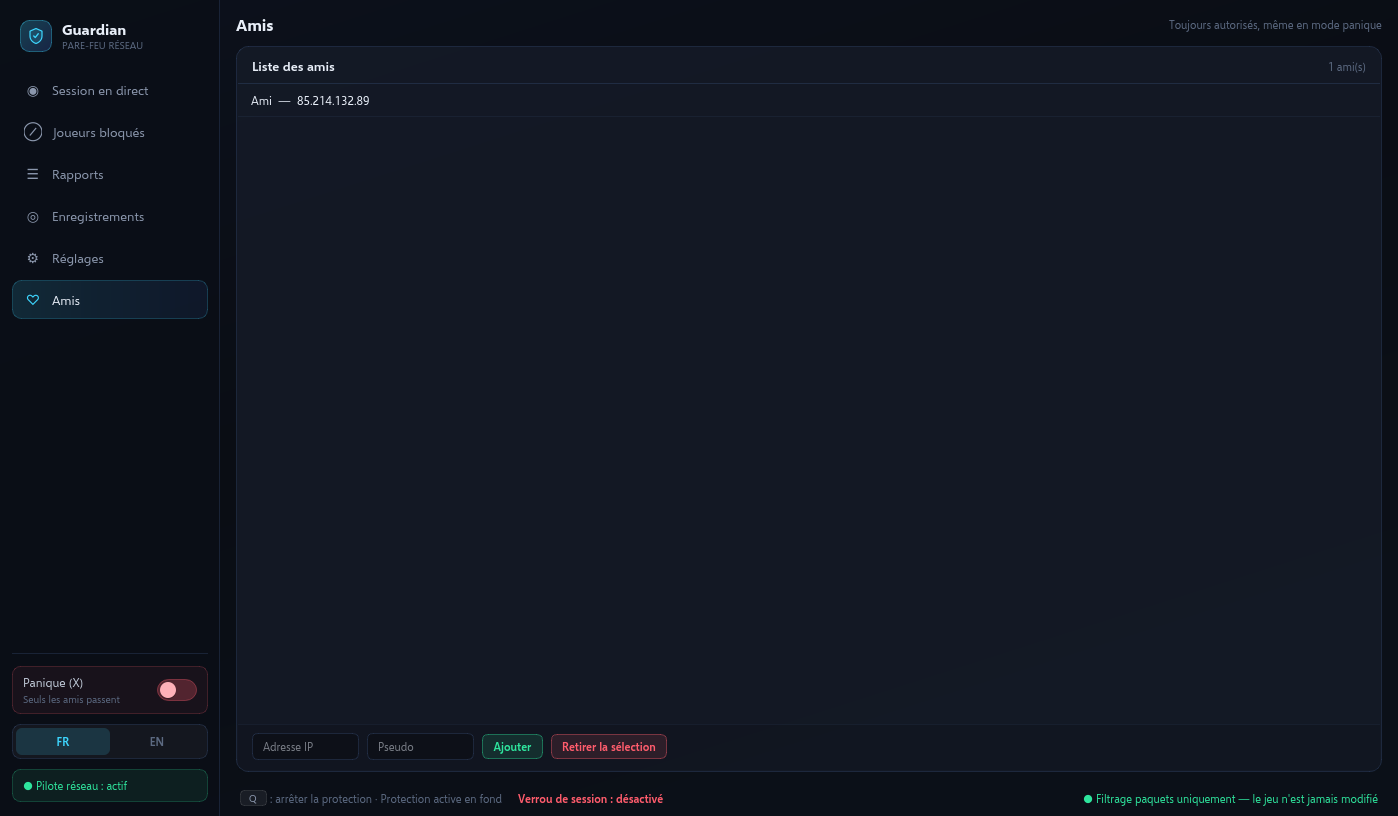
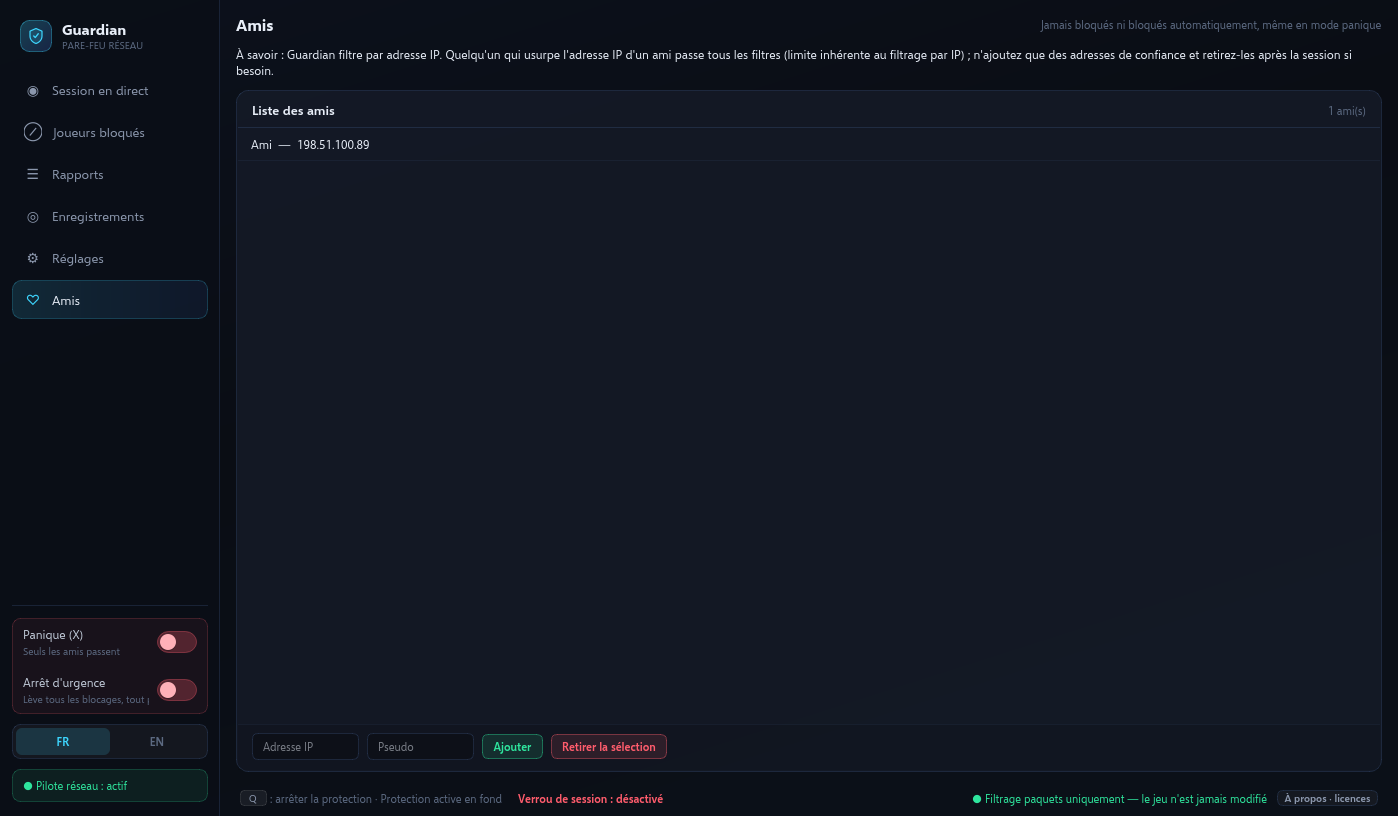
G4 : IP d'exemple/démo en plages RFC 5737 ; captures régénérées ; tests adaptés après rebase lot 7

Changed region(s): [[0.1538, 0.0306, 0.9843, 0.1838], [0.7074, 0.9498, 0.9843, 1.0], [0.0, 0.7659, 0.1538, 0.8578]]

diff --git a/tests/test_lot5_gui.py b/tests/test_lot5_gui.py
@@ -55,13 +55,26 @@ def select_ip(win, ip):
     raise AssertionError(ip)
 
 
+# Vraie IP publique, uniquement pour vérifier la géolocalisation hors ligne
+# (les données de démonstration utilisent les plages RFC 5737).
+GEO_IP = "82.64.12.45"
+
+
+def add_geo_peer(win, session):
+    feed(session, [(GEO_IP, 18, 28)])
+    win.refresh()
+
+
 def test_table_shows_peers_with_country_ping_pps(win, session):
     t = win.live.table
     assert t.rowCount() == len(session.peers) > 0  # aucun serveur R* ici
     ips = {t.item(i, 1).text() for i in range(t.rowCount())}
-    assert "82.64.12.45" in ips
-    row = next(i for i in range(t.rowCount()) if t.item(i, 1).text() == "82.64.12.45")
-    assert t.item(row, 0).text() == "France"
+    assert "203.0.113.10" in ips
+    row = next(i for i in range(t.rowCount()) if t.item(i, 1).text() == "203.0.113.10")
+    assert t.item(row, 0).text() == "Inconnu"  # plage de documentation
+    add_geo_peer(win, session)
+    geo = next(i for i in range(t.rowCount()) if t.item(i, 1).text() == GEO_IP)
+    assert t.item(geo, 0).text() == "France"
     assert t.item(row, 2).text().endswith("ms")
     assert float(t.item(row, 3).text()) > 0
     from gui.window import BADGES_ROLE
@@ -122,44 +135,44 @@ def test_recording_and_kick_buttons(qtbot, win, session, keys):
 
 
 def test_block_unblock_selected_row(qtbot, win, session, keys):
-    select_ip(win, "91.198.174.22")
+    select_ip(win, "203.0.113.22")
     qtbot.mouseClick(win.live.b_block, Qt.MouseButton.LeftButton)
-    assert "91.198.174.22" in session.blocked
-    assert session.ctrl.blacklist.get("91.198.174.22") is not None
-    select_ip(win, "91.198.174.22")
+    assert "203.0.113.22" in session.blocked
+    assert session.ctrl.blacklist.get("203.0.113.22") is not None
+    select_ip(win, "203.0.113.22")
     qtbot.mouseClick(win.live.b_unblock, Qt.MouseButton.LeftButton)
-    assert "91.198.174.22" not in session.blocked
+    assert "203.0.113.22" not in session.blocked
     assert keys == ["b", "d"]
 
 
 def test_blocked_page_unblock(qtbot, win, session, keys):
-    win.actions_.block("85.214.132.89", "x")
+    win.actions_.block("198.51.100.89", "x")
     win.refresh()
     page = win.blocked
     assert page.table.rowCount() == 1
     page.table.selectRow(0)
     qtbot.mouseClick(page.unblock, Qt.MouseButton.LeftButton)
-    assert "85.214.132.89" not in session.blocked
+    assert "198.51.100.89" not in session.blocked
     assert keys == ["b", "d"]
 
 
 def test_friend_toggle_and_friends_page(qtbot, win, session, keys):
-    select_ip(win, "79.23.45.110")
+    select_ip(win, "203.0.113.110")
     qtbot.mouseClick(win.live.b_friend, Qt.MouseButton.LeftButton)
-    assert session.ctrl.friends.get("79.23.45.110") == "Toto"
-    assert session.config.data[ls.FRIENDS_KEY] == {"79.23.45.110": "Toto"}
+    assert session.ctrl.friends.get("203.0.113.110") == "Toto"
+    assert session.config.data[ls.FRIENDS_KEY] == {"203.0.113.110": "Toto"}
     win.refresh()
     assert win.friends.list.count() == 1
     win.friends.list.setCurrentRow(0)
     qtbot.mouseClick(win.friends.remove, Qt.MouseButton.LeftButton)
-    assert "79.23.45.110" not in session.ctrl.friends
+    assert "203.0.113.110" not in session.ctrl.friends
     win.friends.ip.setText("pas-une-ip")
     qtbot.mouseClick(win.friends.add, Qt.MouseButton.LeftButton)
     assert not session.ctrl.friends
-    win.friends.ip.setText("81.2.69.160")
+    win.friends.ip.setText("192.0.2.160")
     win.friends.nick.setText("Ami")
     qtbot.mouseClick(win.friends.add, Qt.MouseButton.LeftButton)
-    assert session.ctrl.friends == {"81.2.69.160": "Ami"}
+    assert session.ctrl.friends == {"192.0.2.160": "Ami"}
     assert keys == ["f"]
 
 
@@ -264,20 +277,21 @@ def test_console_flag_keeps_console_mode():
 
 
 def test_row_buttons_block_and_unblock(qtbot, win, session, keys):
-    btn = win.live.row_button("91.198.174.22")
+    btn = win.live.row_button("203.0.113.22")
     assert btn is not None and btn.text() == "Bloquer"
     qtbot.mouseClick(btn, Qt.MouseButton.LeftButton)
-    assert "91.198.174.22" in session.blocked
-    btn = win.live.row_button("91.198.174.22")
+    assert "203.0.113.22" in session.blocked
+    btn = win.live.row_button("203.0.113.22")
     assert btn.text() == "Débloquer"
     qtbot.mouseClick(btn, Qt.MouseButton.LeftButton)
-    assert "91.198.174.22" not in session.blocked
+    assert "203.0.113.22" not in session.blocked
     assert keys == ["b", "d"]
 
 
-def test_flag_and_full_country_name(win):
+def test_flag_and_full_country_name(win, session):
+    add_geo_peer(win, session)
     t = win.live.table
-    row = next(i for i in range(t.rowCount()) if t.item(i, 1).text() == "82.64.12.45")
+    row = next(i for i in range(t.rowCount()) if t.item(i, 1).text() == GEO_IP)
     assert t.item(row, 0).text() == "France"
     assert not t.item(row, 0).icon().isNull()
 
@@ -351,15 +365,15 @@ def test_reports_page_lists_existing_reports_read_only(win):
 
     d = reports_dir()
     d.mkdir(parents=True, exist_ok=True)
-    (d / "20261027-142201_176.4.29.17.txt").write_text("rapport")
-    (d / "20261027-142201_176.4.29.17.json").write_text("{}")
+    (d / "20261027-142201_198.51.100.17.txt").write_text("rapport")
+    (d / "20261027-142201_198.51.100.17.json").write_text("{}")
     before = sorted(p.name for p in d.iterdir())
     win.nav[win.REPORTS].click()
     win.reports.rescan()
     names = [
         win.reports.table.item(i, 0).text() for i in range(win.reports.table.rowCount())
     ]
-    assert "20261027-142201_176.4.29.17.txt" in names
+    assert "20261027-142201_198.51.100.17.txt" in names
     assert all(n.endswith(".txt") for n in names)
     assert sorted(p.name for p in d.iterdir()) == before  # rien écrit ni supprimé
 

diff --git a/tests/test_lot5_retouches.py b/tests/test_lot5_retouches.py
@@ -112,17 +112,18 @@ def test_g3_about_button_shows_lgpl(qtbot, win, shown):
     assert "PySide6" in text and "LGPL-3.0" in text
 
 
-# -- G4 : pays de l'IP d'exemple ---------------------------------------------------
-def test_g4_example_ip_country_from_offline_db(win):
-    from util.geoip import country_code
+# -- G4 : exemples et démonstration en plages de documentation (RFC 5737) -------
+def test_g4_demo_ips_are_documentation_ranges():
+    import ipaddress
 
-    code = country_code("91.198.174.22")
-    t = win.live.table
-    row = next(i for i in range(t.rowCount()) if t.item(i, 1).text() == "91.198.174.22")
-    from gui import countries
+    from tests.gui_fakes import DEMO_PEERS
 
-    # L'étiquette affichée suit toujours la base hors ligne (jamais codée en dur).
-    assert t.item(row, 0).text() == countries.name(code)
+    doc = [
+        ipaddress.ip_network(n)
+        for n in ("192.0.2.0/24", "198.51.100.0/24", "203.0.113.0/24")
+    ]
+    for ip, _pps, _ping in DEMO_PEERS:
+        assert any(ipaddress.ip_address(ip) in n for n in doc), ip
 
 
 # -- G5 : une notification = un seul affichage -------------------------------------
@@ -279,7 +280,7 @@ def test_kick_button_arms_capture(qtbot, win, session):
 
 
 def test_live_header_buttons(qtbot, win, session):
-    ip = "82.64.12.45"
+    ip = "203.0.113.10"
     select_ip(win, ip)
     click(qtbot, win.live.b_block)
     assert ip in session.blocked
@@ -289,7 +290,7 @@ def test_live_header_buttons(qtbot, win, session):
     select_ip(win, ip)
     click(qtbot, win.live.b_friend)
     assert session.ctrl.is_friend(ip)
-    select_ip(win, "79.23.45.110")
+    select_ip(win, "203.0.113.110")
     click(qtbot, win.live.b_pseudo)  # pas d'exception, passe par la touche P
 
 
@@ -302,7 +303,7 @@ def test_buttons_without_selection_navigate(qtbot, win):
 
 
 def test_blocked_page_unblock(qtbot, win, session):
-    ip = "81.2.69.160"
+    ip = "192.0.2.160"
     win.actions_.block(ip)
     win.refresh()
     win.blocked.table.selectRow(0)
@@ -317,10 +318,11 @@ def test_friends_page_add_remove(qtbot, win, session):
     page.nick.setText("Bob")
     click(qtbot, page.add)
     assert session.ctrl.is_friend("203.0.113.9")
-    assert page.message.text() == "Ami ajouté."
+    ok_msg = page.message.text()
+    assert ok_msg.startswith("Ami ajouté")
     page.ip.setText("pas une ip")
     click(qtbot, page.add)
-    assert page.message.text() == "Adresse invalide ou refusée."
+    assert page.message.text() and page.message.text() != ok_msg
     page.list.setCurrentRow(0)
     click(qtbot, page.remove)
     assert not session.ctrl.is_friend("203.0.113.9")

diff --git a/tests/test_lot7_extras.py b/tests/test_lot7_extras.py
@@ -17,8 +17,8 @@ from util import exehash, health
 from util.driver import CTRL_CLOSE_EVENT, DriverLifecycle
 from util.hotkeys import DEFAULT_HOTKEYS, GlobalHotkeys, hotkey_text
 
-FRIEND = "81.2.69.160"
-OTHER = "91.198.174.22"
+FRIEND = "192.0.2.160"
+OTHER = "203.0.113.22"
 
 
 class Flag:
@@ -115,9 +115,9 @@ def test_emergency_stop_lifts_everything_and_resume_restores_saved():
     c = ctrl(
         bl, bypass_flag=flag, panic_flag=panic, lock_flag=lock, clock=lambda: 100.0
     )
-    c.auto_entries["5.5.5.5"] = 1000.0
-    c.blocked["5.5.5.5"] = 1000.0
-    c.blocked["6.6.6.6"] = ls.PERMANENT
+    c.auto_entries["192.0.2.5"] = 1000.0
+    c.blocked["192.0.2.5"] = 1000.0
+    c.blocked["192.0.2.6"] = ls.PERMANENT
     c.panic = True
     c.session_lock = True
     c.emergency_stop()
@@ -125,13 +125,13 @@ def test_emergency_stop_lifts_everything_and_resume_restores_saved():
     assert not c.blocked and not c.panic and not c.session_lock and not c.auto_block
     assert panic.value == 0 and lock.value == 0
     assert dict(bl) == {OTHER: "y"}  # data.json intact
-    peer = ls.PeerState(ip="7.7.7.7", first_seen=0.0, last_seen=0.0)
+    peer = ls.PeerState(ip="192.0.2.7", first_seen=0.0, last_seen=0.0)
     peer.level = ls.Level.SUSPECT
     c.auto_block = True
     assert not c.auto_block_if_needed(peer)  # aucun nouveau blocage pendant l'urgence
     c.toggle_emergency()
     assert not c.filtering_paused and not flag.value
-    assert c.blocked == {OTHER: ls.PERMANENT, "5.5.5.5": 1000.0}
+    assert c.blocked == {OTHER: ls.PERMANENT, "192.0.2.5": 1000.0}
 
 
 # -- 2) profils ------------------------------------------------------------------
@@ -435,7 +435,7 @@ def test_r1_shield_cuts_300pps_after_emergency_resume(tmp_path):
     toggle_emergency(s)
     toggle_emergency(s)
     assert s.ctrl.auto_block and not s.ctrl.filtering_paused
-    flood = "176.4.29.17"
+    flood = "198.51.100.17"
     feed(s, peers=[(flood, 300, 40)], seconds=8.0)
     assert flood in s.ctrl.blocked
 

diff --git a/tools/gui_screenshots.py b/tools/gui_screenshots.py
@@ -21,6 +21,7 @@ from tests.gui_fakes import feed, make_session  # noqa: E402
 def main(out: Path) -> None:
     from gui.window import MainWindow
     from menu import livesession as ls
+    from util.geoip import country_label
 
     out.mkdir(parents=True, exist_ok=True)
     app = QApplication.instance() or QApplication(sys.argv)
@@ -40,7 +41,7 @@ def main(out: Path) -> None:
 
     rep = reports_dir()
     rep.mkdir(parents=True, exist_ok=True)
-    for name in ("20261027-142201_176.4.29.17", "20261027-150512_177.54.148.23"):
+    for name in ("20261027-142201_198.51.100.17", "20261027-150512_198.51.100.23"):
         (rep / f"{name}.txt").write_text("Rapport d'incident (exemple)\n" * 40)
         (rep / f"{name}.json").write_text("{}")
     rec = Path(os.environ["LOCALAPPDATA"])
@@ -48,11 +49,15 @@ def main(out: Path) -> None:
         (rec / f"{name}.csv").write_text("ts,ip,size\n" + "0,0.0.0.0,0\n" * 300)
     win = MainWindow(session, "3.7", ask_text=lambda *_a: "Exemple")
     win.timer.stop()
-    win.actions_.block("176.4.29.17", "Exemple")
-    win.actions_.toggle_friend("85.214.132.89", "Ami")
-    session.ctrl.offender_ips["177.54.148.23"] = 1.0
+    win.actions_.block("198.51.100.17", "Exemple")
+    win.actions_.toggle_friend("198.51.100.89", "Ami")
+    session.ctrl.offender_ips["198.51.100.23"] = 1.0
     session.ctrl.events.append(
-        ls.t("live.ev.new_player", ip="85.214.132.89", country="DE")
+        ls.t(
+            "live.ev.new_player",
+            ip="198.51.100.89",
+            country=country_label("198.51.100.89"),  # RFC 5737 : pays inconnu
+        )
     )
     win.actions_.toggle_lock()
     win.actions_.toggle_lock()

diff --git a/tests/gui_fakes.py b/tests/gui_fakes.py
@@ -65,14 +65,14 @@ class FakeProc:
 
 
 DEMO_PEERS = [
-    ("82.64.12.45", 18, 28),
-    ("91.198.174.22", 24, 41),
-    ("176.4.29.17", 105, 52),
-    ("85.214.132.89", 15, 36),
-    ("79.23.45.110", 22, 48),
-    ("81.2.69.160", 47, 33),
-    ("104.16.48.12", 12, 98),
-    ("177.54.148.23", 68, 142),
+    ("203.0.113.10", 18, 28),
+    ("203.0.113.22", 24, 41),
+    ("198.51.100.17", 105, 52),
+    ("198.51.100.89", 15, 36),
+    ("203.0.113.110", 22, 48),
+    ("192.0.2.160", 47, 33),
+    ("192.0.2.12", 12, 98),
+    ("198.51.100.23", 68, 142),
 ]
 
 

diff --git a/tests/test_lot5_shield.py b/tests/test_lot5_shield.py
@@ -4,7 +4,7 @@ import pytest
 
 from network.anomaly import RATE_CAP, SessionMonitor
 
-IP = "85.214.132.89"
+IP = "198.51.100.89"
 
 
 def cut_after(before: float, after: float, pps: int, shield_pps: int = 80) -> float:
